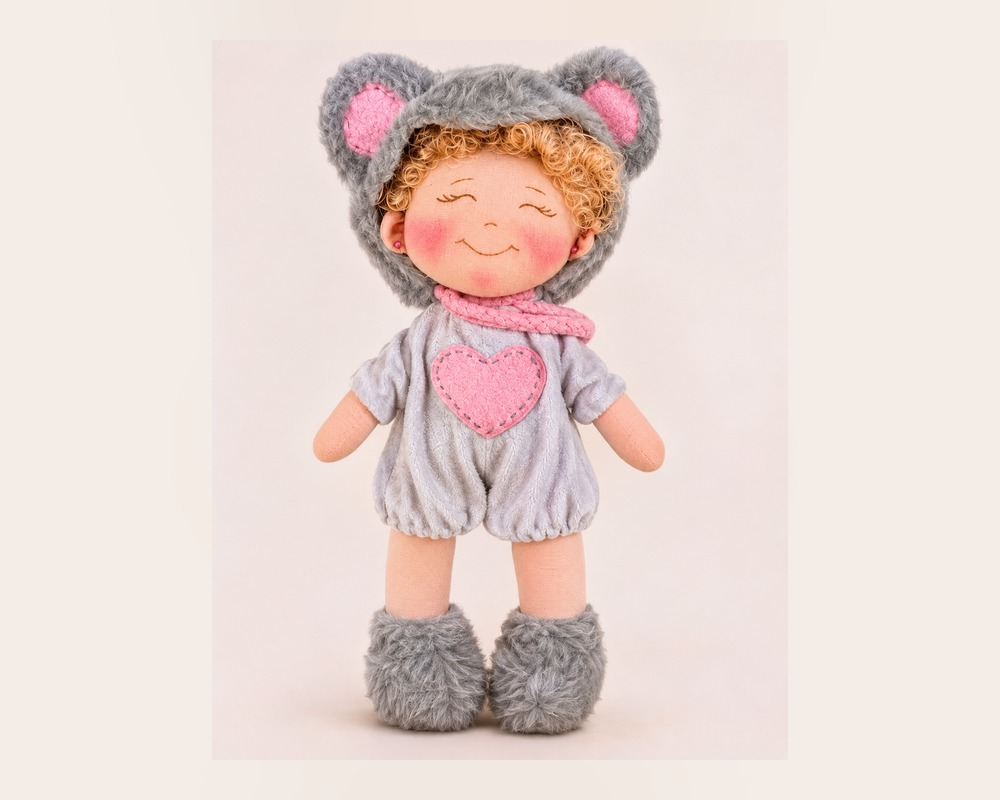
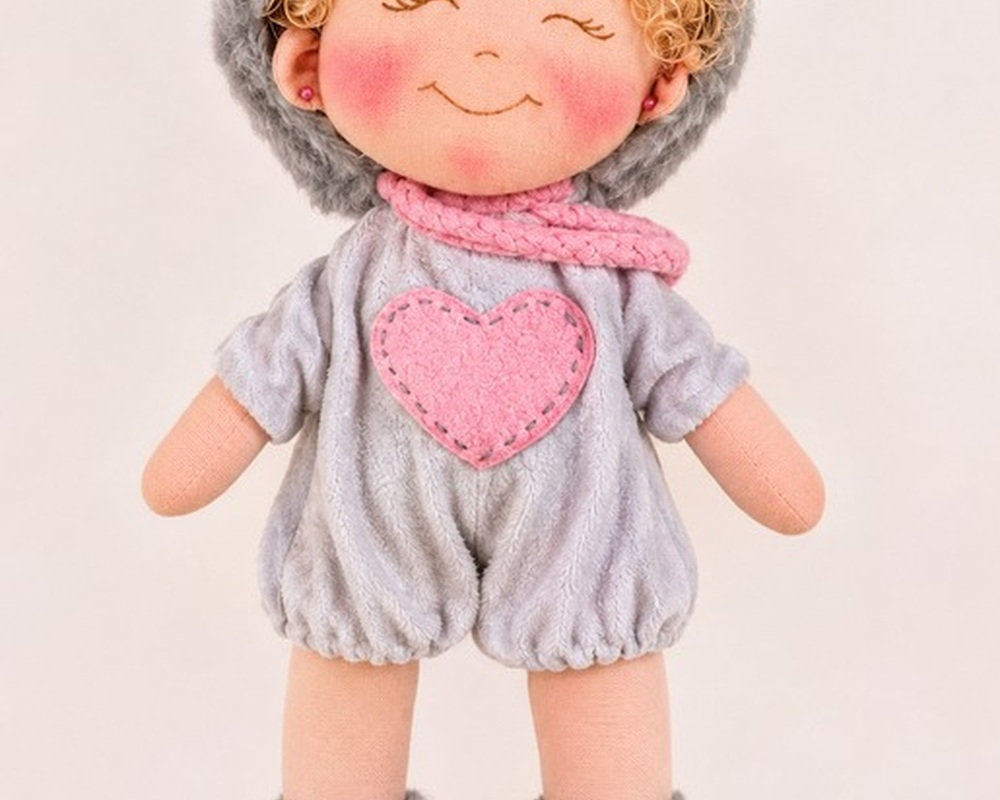
Add files via upload

diff --git a/cursos.js b/cursos.js
@@ -1,16 +1,16 @@
 // Lista de cursos e preços da Black Friday.
 // Fotos e links de checkout serão adicionados depois.
 window.CURSOS = [
-  {id:'trio-ternura', nome:'Trio Ternura', preco:157, foto:'assets/trio-ternura.jpg', descricao:'Conheça o curso Trio Ternura do Ateliê Agulha e Pano.', checkout:''},
-  {id:'mimos-em-trio', nome:'Mimos em Trio', preco:157, foto:'assets/mimos-em-trio.jpg', descricao:'Conheça o curso Mimos em Trio do Ateliê Agulha e Pano.', checkout:''},
-  {id:'turminha-da-juju', nome:'Turminha da Juju', preco:397, foto:'assets/turminha-da-juju.jpg', descricao:'Conheça o curso Turminha da Juju do Ateliê Agulha e Pano.', checkout:''},
-  {id:'figurinha-sarah-kay', nome:'Figurinha Sarah Kay', preco:157, foto:'assets/figurinhas-sarah-kay.jpg', descricao:'Conheça o curso Figurinha Sarah Kay do Ateliê Agulha e Pano.', checkout:''},
-  {id:'bebe-cebolinha', nome:'Bebê Cebolinha', preco:73, foto:'assets/bebe-cebolinha.jpg', descricao:'Conheça o curso Bebê Cebolinha do Ateliê Agulha e Pano.', checkout:''},
-  {id:'molly', nome:'Molly', preco:59, foto:'assets/molly.jpg', descricao:'Conheça o curso Molly do Ateliê Agulha e Pano.', checkout:''},
-  {id:'maluly', nome:'Maluly', preco:85, foto:'assets/maluly.jpg', descricao:'Conheça o curso Maluly do Ateliê Agulha e Pano.', checkout:''},
-  {id:'maria-flor', nome:'Maria Flor', preco:197, foto:'assets/maria-flor.jpg', descricao:'Conheça o curso Maria Flor do Ateliê Agulha e Pano.', checkout:''},
-  {id:'nenem-doll', nome:'Neném Doll', preco:75, foto:'assets/nenem-doll.jpg', descricao:'Conheça o curso Neném Doll do Ateliê Agulha e Pano.', checkout:''},
-  {id:'emilia', nome:'Emília', preco:49, foto:'assets/emilia.jpg', descricao:'Conheça o curso Emília do Ateliê Agulha e Pano.', checkout:''},
-  {id:'clarinha', nome:'Clarinha', preco:79, foto:'assets/clarinha.jpg', descricao:'Conheça o curso Clarinha do Ateliê Agulha e Pano.', checkout:''}
+  {id:'trio-ternura', nome:'Trio Ternura', preco:157, foto:'assets/trio-ternura.jpg?v=4', descricao:'Conheça o curso Trio Ternura do Ateliê Agulha e Pano.', checkout:''},
+  {id:'mimos-em-trio', nome:'Mimos em Trio', preco:157, foto:'assets/mimos-em-trio.jpg?v=4', descricao:'Conheça o curso Mimos em Trio do Ateliê Agulha e Pano.', checkout:''},
+  {id:'turminha-da-juju', nome:'Turminha da Juju', preco:397, foto:'assets/turminha-da-juju.jpg?v=4', descricao:'Conheça o curso Turminha da Juju do Ateliê Agulha e Pano.', checkout:''},
+  {id:'figurinha-sarah-kay', nome:'Figurinha Sarah Kay', preco:157, foto:'assets/figurinhas-sarah-kay.jpg?v=4', descricao:'Conheça o curso Figurinha Sarah Kay do Ateliê Agulha e Pano.', checkout:''},
+  {id:'bebe-cebolinha', nome:'Bebê Cebolinha', preco:73, foto:'assets/bebe-cebolinha.jpg?v=4', descricao:'Conheça o curso Bebê Cebolinha do Ateliê Agulha e Pano.', checkout:''},
+  {id:'molly', nome:'Molly', preco:59, foto:'assets/molly.jpg?v=4', descricao:'Conheça o curso Molly do Ateliê Agulha e Pano.', checkout:''},
+  {id:'maluly', nome:'Maluly', preco:85, foto:'assets/maluly.jpg?v=4', descricao:'Conheça o curso Maluly do Ateliê Agulha e Pano.', checkout:''},
+  {id:'maria-flor', nome:'Maria Flor', preco:197, foto:'assets/maria-flor.jpg?v=4', descricao:'Conheça o curso Maria Flor do Ateliê Agulha e Pano.', checkout:''},
+  {id:'nenem-doll', nome:'Neném Doll', preco:75, foto:'assets/nenem-doll.jpg?v=4', descricao:'Conheça o curso Neném Doll do Ateliê Agulha e Pano.', checkout:''},
+  {id:'emilia', nome:'Emília', preco:49, foto:'assets/emilia.jpg?v=4', descricao:'Conheça o curso Emília do Ateliê Agulha e Pano.', checkout:''},
+  {id:'clarinha', nome:'Clarinha', preco:79, foto:'assets/clarinha.jpg?v=4', descricao:'Conheça o curso Clarinha do Ateliê Agulha e Pano.', checkout:''}
 ];
 window.moeda = valor => new Intl.NumberFormat('pt-BR',{style:'currency',currency:'BRL'}).format(valor);

diff --git a/style.css b/style.css
@@ -74,3 +74,21 @@
  .course-body h3{margin-bottom:4px}
  .hero-art>img{height:98%;object-fit:contain;object-position:right bottom}
 }
+
+
+/* Padronização da vitrine: retratos grandes e preenchimento integral */
+.course-visual,.course-visual:before,.course-visual:after{background:#f7e9e2!important}
+.course-visual:before,.course-visual:after{content:none!important;display:none!important}
+.course-visual{height:auto!important;aspect-ratio:4/5!important;display:block!important;overflow:hidden!important}
+.course-visual img{width:100%!important;height:100%!important;object-fit:cover!important;object-position:center center!important;display:block!important}
+.course-card{background:#fbe5e9!important}
+@media(max-width:640px){
+ .course-visual{aspect-ratio:4/5!important}
+ .course-visual img{object-fit:cover!important}
+ .course-body{padding-top:8px!important}
+}
+
+/* Fotos em sangria completa, sem moldura interna nem flores sobrepostas */
+.course-visual{aspect-ratio:5/4!important;background:#f7e9e2!important}
+.course-visual img{object-fit:cover!important;width:100%!important;height:100%!important}
+@media(max-width:640px){.course-visual{aspect-ratio:5/4!important}}
